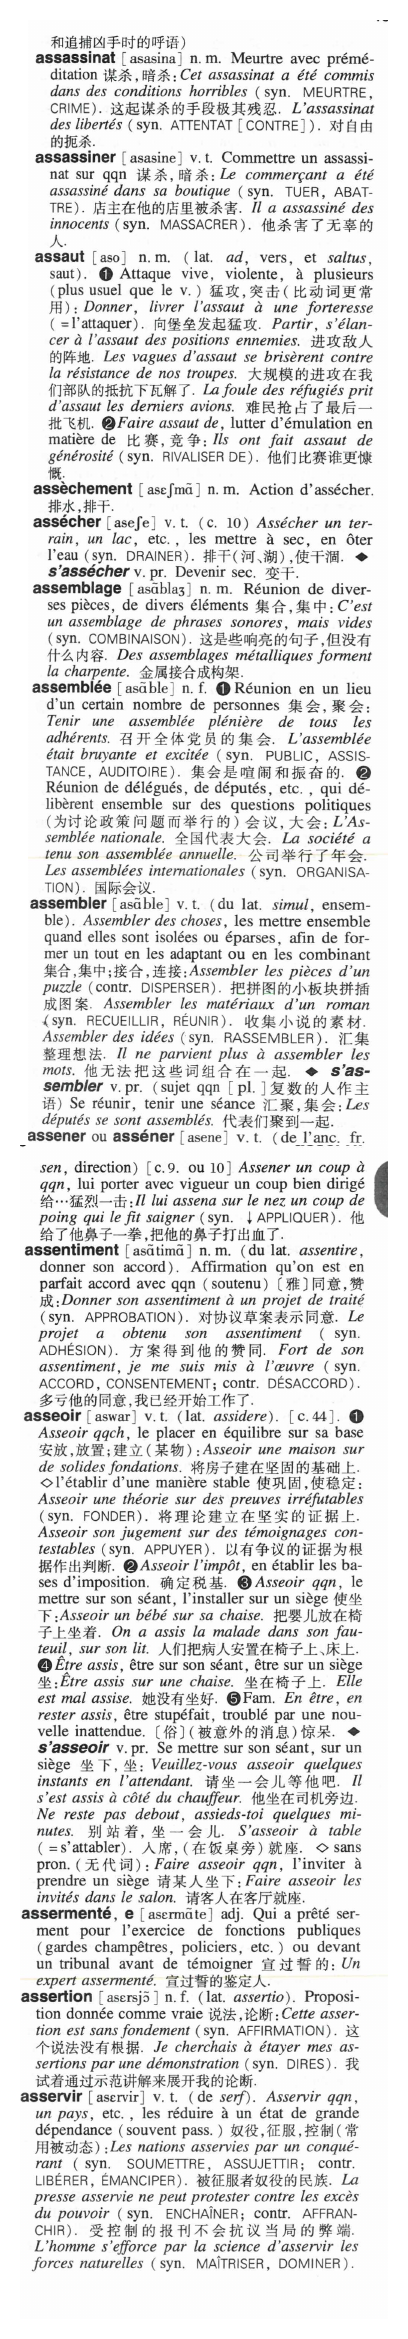
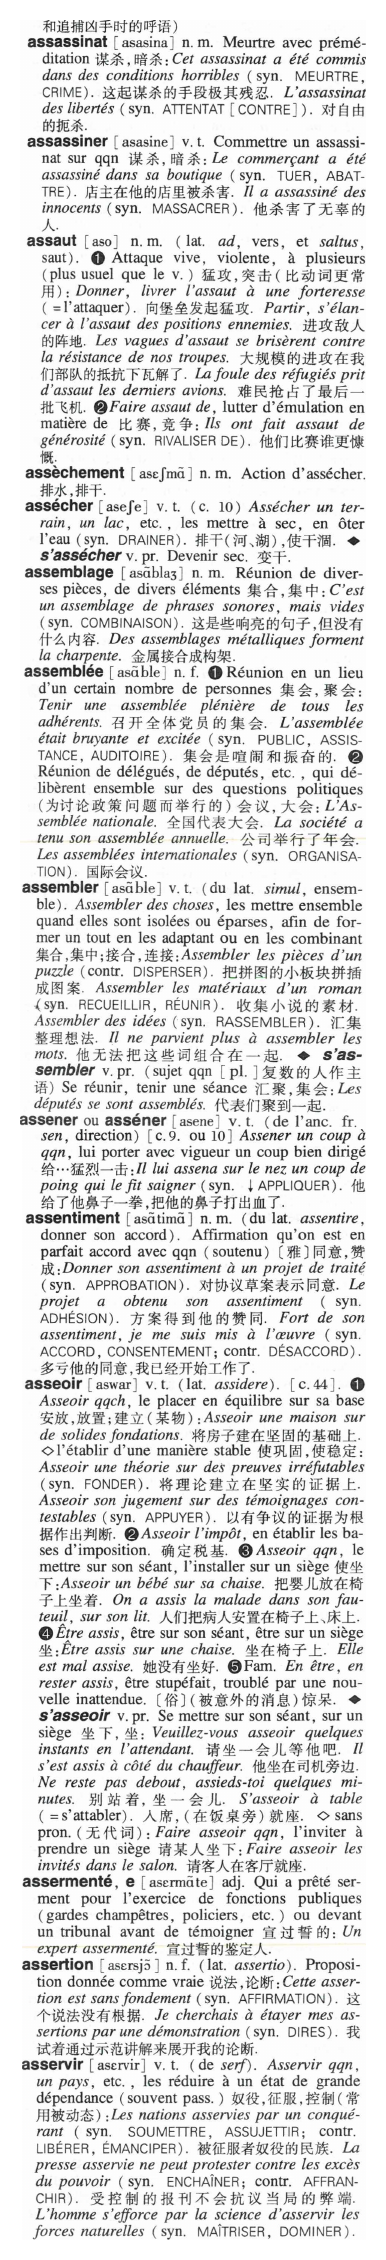
135

diff --git a/larousse/croissant.py b/larousse/croissant.py
@@ -43,12 +43,13 @@ def odd_pic(p_name):
     im = Image.open(p_name)
     w,h = im.size 
     top = 60
+    top = 71
+
     right = 53
-    top = 68
-    right = 53
+    #right = 64
 
     m = (w-right)/2 + w/70 + 10
-    m = (w-right)/2 + w/70 + 14
+    #m = (w-right)/2 + w/70 + 7
 
     print(im.size)
     
@@ -60,13 +61,13 @@ def even_pic(p_name):
     im = Image.open(p_name)
     w,h = im.size 
     top = 60
-    top = 66
+    #top = 64
 
     left = 55
-    left = 69
+    left = 60
     
     m = (w-left) / 2 + left - w/70
-    m = (w-left) / 2 + left - w/70 - 15
+    #m = (w-left) / 2 + left - w/70 - 15
     print(im.size)
     
     im1 = im.crop((left,top,m,h))
@@ -81,4 +82,4 @@ def cut(i):
     else:
         even_pic(p_name)
 
-cut(99)
+cut(135)
